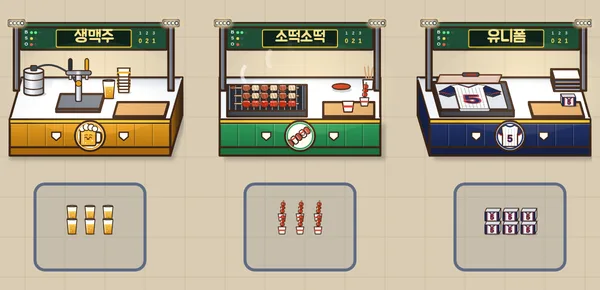
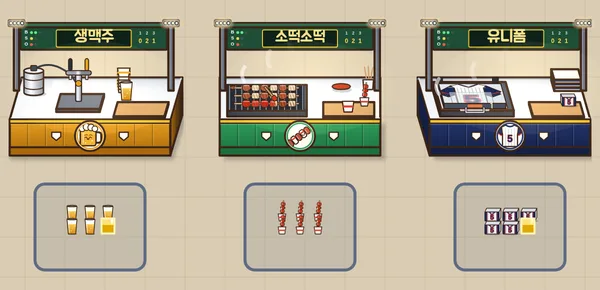
층층이: 4층 편의점 마무리 — 소개 캡처 다시 찍기, apps.ts 4층 설명, 진행 중 메모를 히스토리로

diff --git a/app/data/apps.ts b/app/data/apps.ts
@@ -374,7 +374,7 @@ export const apps: App[] = [
 • 1층 층층분식: 떡볶이 철판(국자로 컵에 담기) · 김밥 말이대(김발로 말아 썰기) · 순대 찜통(뚜껑이 덜컹, 도마에서 썰기)
 • 2층 따끈 붕어빵: 반원 아치 천막 겨울 노점, 세 대 생김새가 다 달라요 — 호떡 손수레(반죽 공을 누르개로 꾹 → 가장자리가 볼록한 노릇한 호떡) · 붕어빵 둥근 드럼(뚜껑 달린 붕어 틀이 빙글 돌며 반죽 → 팥 → 탁 덮고 굽기, 옆 철망 진열대에 붕어빵이 줄줄이) · 계란빵 스테인리스 기계 두 대(양쪽 판에 반죽, 한쪽에 달걀 → 판을 책처럼 덮었다 열면 봉긋 부푼 계란빵)
 • 3층 바삭치킨: 후라이드 전기 튀김기(철망 바구니가 기름에 퐁당 → 쑥 올라와 탈탈) · 양념 가스레인지 웍(국자로 양념 주르륵 → 웍 흔들어 버무림) · 간장 숯불 화로(붓으로 쓱쓱) — 위엔 환풍기가 빙글빙글, 집게로 쟁반에
-• 4층 24시 층층편의점: 핫바 온장 케이스(열선 아래 롤러에서 데굴데굴 노릇) · 바나나우유 유리문 냉장고(선반에 한 칸씩 채우기) · 둥근 호빵 찜기(호빵이 부풀고 김 서림)
+• 4층 24시 층층편의점(실내라 천막 없음): 계산대 핫바 롤러 그릴(데굴데굴 노릇 → 쟁반에 케첩·머스터드 지그재그) · 키 큰 바나나우유 유리문 냉장고(선반 네 단 채우기 → 문 열고 꺼냄) · 3단 호빵 찜기(김 서린 유리 속에서 호빵이 부풂)
 • 5층 한강라면: 편의점 즉석 라면 조리기 3대 — 은박 용기에 면 → 꼭지에서 물 → 인덕션에서 보글보글 + 달걀·파(타이머 3:00), 옆엔 봉지라면 진열대
 • 6층 ♨ 층층 찜질방: 황토 불가마 맥반석 계란(아궁이 불 속에서 노릇 → 빨간 망에 셋) · 살얼음 식혜 기계(밥알이 빙빙 돌고 살얼음 → 컵에 졸졸) · 팥빙수(빙수기에서 눈꽃 얼음 → 팥·인절미·콩가루·연유). 찜질복 입은 손님과 관광객이 와요
 • 7층 층층 뷰티(K화장품): 마스크팩(에센스 촉촉 → 접어서 봉투 → 실링기 꾹) · 쿠션 팩트(회전판에서 채우기 → 퍼프 톡톡 → 뚜껑 탁) · 립틴트(컨베이어 위 병에 빨간 틴트 → 분홍 뚜껑). 외국인 관광객이 많이 와요

diff --git a/CLAUDE.md b/CLAUDE.md
@@ -75,18 +75,16 @@ version: 'x.y.z+build'
   테마는 6층까지(사용자 확정) → 2026-10-21 7층 층층 뷰티·8층 층층 한복대여·9층 층층 박물관 굿즈샵 추가 → 2026-10-23 10층 층층 야구장 매점, 11층부터 원래 스타일(3D 프린터 + KINDS 기본 물건). THEMES에 층을 더하면 프린터가 자동으로 위로 밀림. 실제 브랜드명·로고는 쓰지 않음.
   제목 '층층이'(부제 '쌓고 팔고, 빨리빨리!') 확정. 시안: 자료실 '층층이_상가건물시안'·'층층이_1-3층가게시안'
 
-## 진행 중 — 4층 편의점 다시 만들기 (2026-10-23, 커밋만·푸시 안 함)
-- 사용자 결정: 실내라 천막·지붕·조명 없음(위쪽 비움 — 이름은 기계에 붙임 `name4`·`tag4`), 기계마다 몸통 다르게 + 원근(`machine4(kind)`, vo ±VOFF·0).
+## 작업 히스토리
+
+### 2026-10-23
+- 층층이 4층 편의점 다시(사용자와 하나씩 맞춤) — 사용자 결정: 실내라 천막·지붕·조명 없음(위쪽 비움 — 이름은 기계에 붙임 `name4`·`tag4`), 기계마다 몸통 다르게 + 원근(`machine4(kind)`, vo ±VOFF·0).
   0번 핫바 = 계산대(counter: 유리 롤러 그릴 케이스 `standBox` + 앞 껌·사탕 진열 + 케첩·머스터드·꼬치 컵 `PROP4`) · 1번 바나나우유 = 바닥에 선 유리문 냉장고(fridge, 선반 넷 단지 40, 간판 불빛) · 2번 호빵 = 수납장 + 둥근 유리 찜기(steamer) + 옆 테이블 전자레인지.
   핫바: 계산대 쟁반에 올리고 케첩 → 머스터드 병이 날아와 거꾸로 지그재그(`sauceBottle`·`zig`, 54~89%, reveal 2). 음영: 앞판 `#fs4`, 서 있는 것 그림자 `cast`, 냉장고 `#fr4`·`#in4`.
   바나나우유 물건 그림 bmilk 다시(사용자: 뚱뚱·볼품없음 → 넓은 입구·짧은 목·통통한 아래, 음영·크림 띠 작은 바나나·은박 뚜껑). 호빵 찜기 높게(사용자: 실물처럼) — 3단 유리 원통 + 가운데 기둥, `HOP_UP` 3단 × 7.
   쟁반 `pTray()`(사용자: 쟁반 방향 — 얕고 둥근 직사각형이라 테이블과 다른 방향처럼 보임 → 앞뒤 깊게·모서리 작게·시점 쪽 두께, 3·4층 공통).
   3층 보조 테이블을 `sideTable3(L)`로 빼서 같이 씀. `upToTray`의 쟁반 자리는 그릴 때 VO대로. 테스트 페이지 4F.
-- 남은 것: 사용자 확인 → 소개 캡처(cap_scenes → to_webp)·apps.ts 4층 설명·히스토리 → 커밋·푸시.
-
-## 작업 히스토리
-
-### 2026-10-23
+  소개 캡처 전부 다시(cap_main·cap_scenes → to_webp), apps.ts 4층 설명.
 - 층층이 3층 치킨 다시(사용자와 하나씩 맞춤, 2층처럼 기계마다 몸통 다르게 `machine3(kind)` + 원근 `mach[k].vo` ±VOFF·0): 왼쪽 후라이드 = 전기 튀김기(fryer) — 철망 바구니(바닥·앞·옆 격자, 들면 30u)가 기름에 잠겼다 쑥 올라와 기름 똑똑, 집게로 쟁반 ·
   가운데 양념 = 네모 가스레인지(range, 큰 화구 + 무쇠 받침 네 갈래·파란 불꽃, `WOK3`) 위 둥근 웍 — 1층 떡볶이 국자(`ladle(..., flip)` 자루 오른쪽, 사용자 요청)로 옆 테이블 양념 냄비(`PROP3.pot`/`POT3`)에서 떠서 주르륵 → 웍 흔들며 치킨 톡톡 → 빨갛게·깨 (예전 빨간 A자 받침 버무림 드럼 `MIX3`는 사용자: '엄청 이상' → 삭제) ·
   오른쪽 간장 = 숯불 화로(brazier) 석쇠·붓. 지붕: 큰 공통 후드 → 튀김기 작은 후드(들어 올린 바구니가 가려짐, 사용자) → 메뉴판 위 네모 환풍기 셋(`FAN3`/`fan3`, 날개 회전·박자 조금씩 다르게, 김·연기가 빨려 들어감, 고장 = 멈춤, 가득 참 = 천천히) — 튀김기·화로 같이(덕트 삭제), 웍은 기둥 둘.
